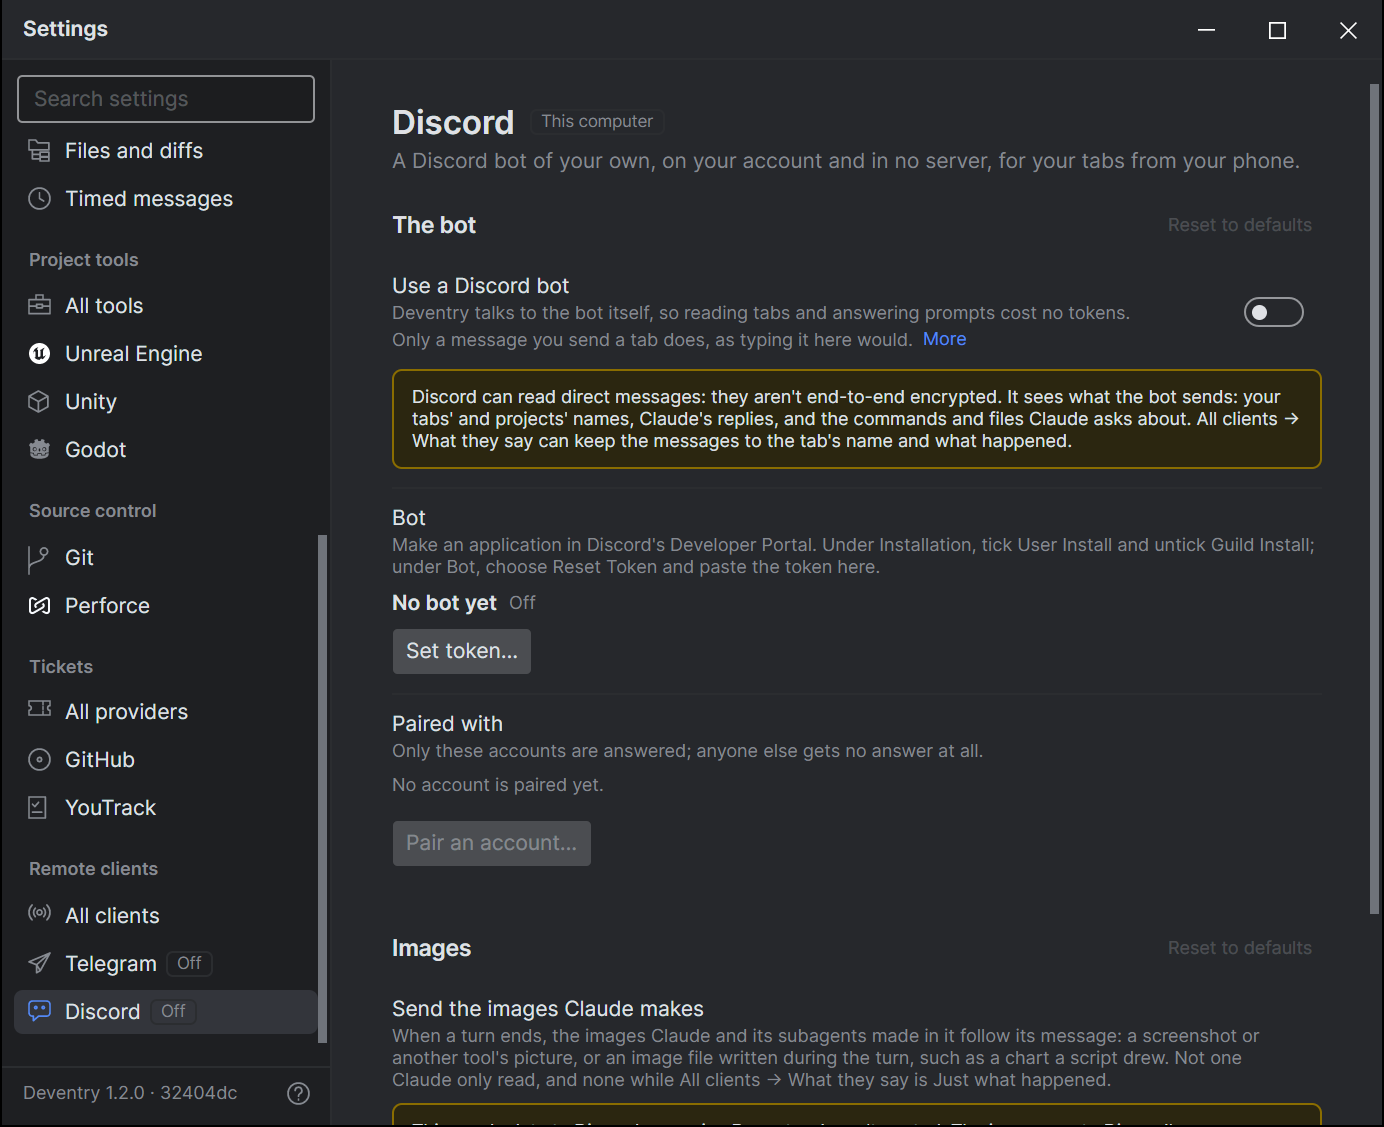
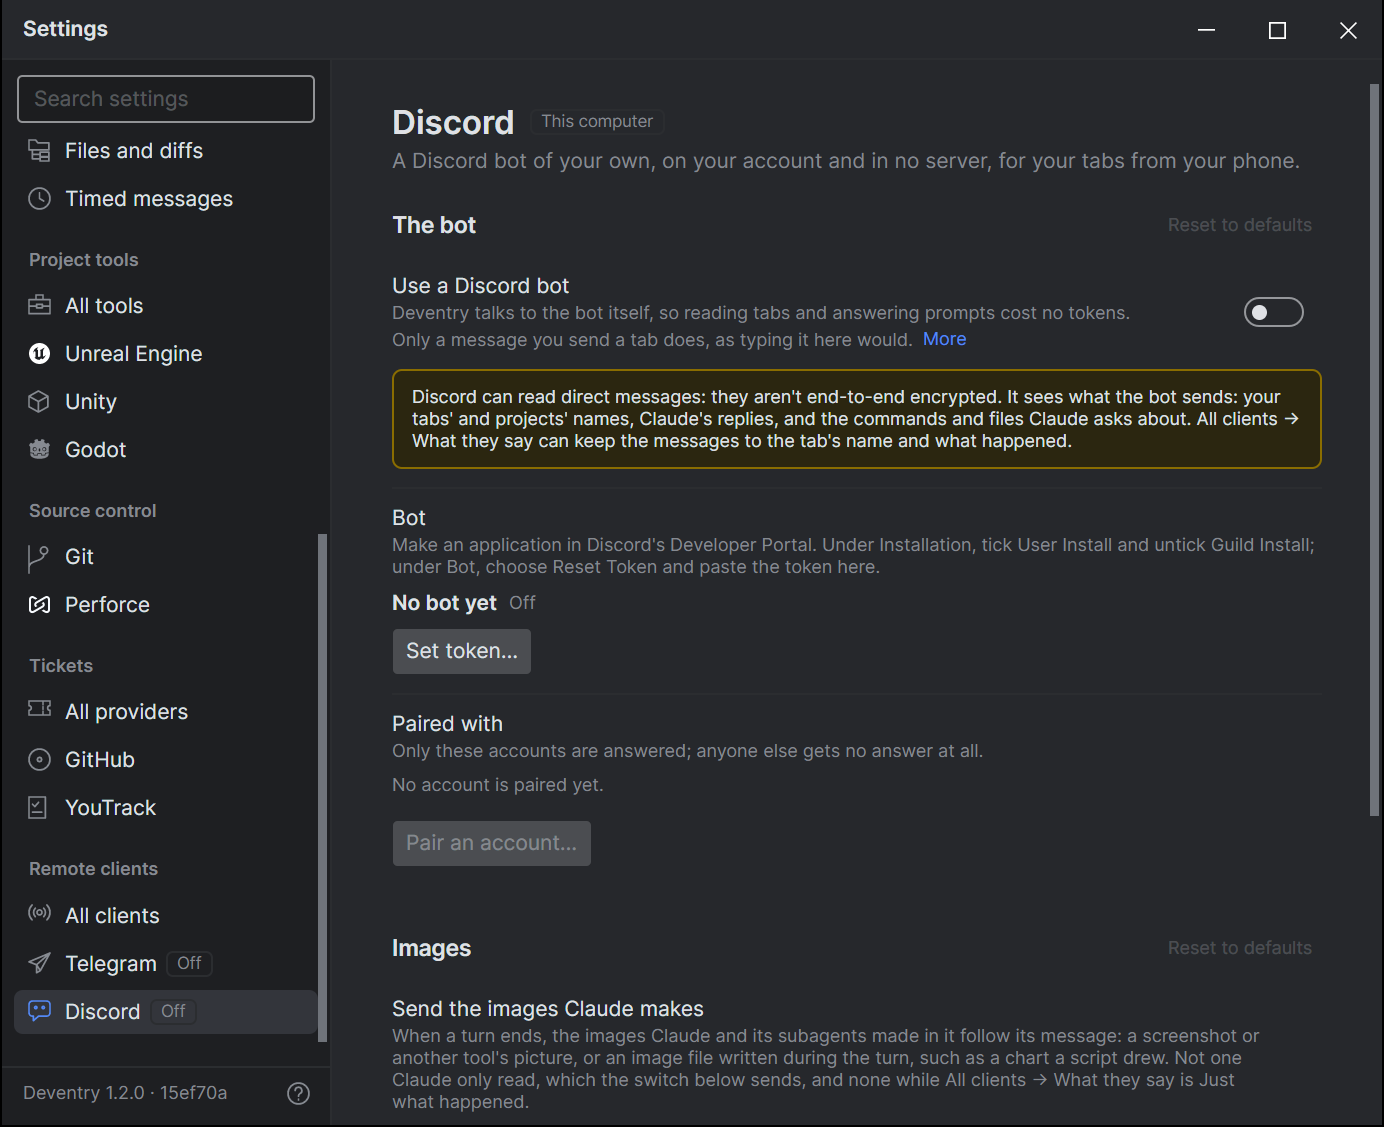
Let a remote client send the images Claude reads too, off by default
Each client's Images section has Send the images Claude reads under Send the images Claude makes: the image files
Claude and its subagents opened in a turn that were there before it, such as a render, a test's screenshot or a
picture another program wrote, follow the turn's message as the images it made do. Its own switch, off until turned
on, since any image file on the computer Claude reads would go; a client sends made and read images each by its own
switch, the caption saying which (The image Claude read, 3 images Claude made or read). The tab picks read images only
while a client that's on sends them.

diff --git a/src/Deventry.App/ViewModels/Settings/RemoteClientPage.cs b/src/Deventry.App/ViewModels/Settings/RemoteClientPage.cs
@@ -54,8 +54,11 @@ public sealed partial class RemoteClientPage : SettingsPage, IDisposable
         Section(ImagesSectionKey, "Images",
         [
             Setting(ImagesKey, ImagesTitle, s => s.RemoteClients.SendsImages(kind), (s, v) => s.RemoteClients.SetSendImages(kind, v),
-                "When a turn ends, the images Claude and its subagents made in it follow its message: a screenshot or another tool's picture, or an image file written during the turn, such as a chart a script drew. Not one Claude only read, and none while All clients → What they say is Just what happened.",
+                "When a turn ends, the images Claude and its subagents made in it follow its message: a screenshot or another tool's picture, or an image file written during the turn, such as a chart a script drew. Not one Claude only read, which the switch below sends, and none while All clients → What they say is Just what happened.",
                 keywords: ["image", "images", "screenshot", "picture", "photo", "chart", "media"]),
+            Setting(ReadImagesKey, ReadImagesTitle, s => s.RemoteClients.SendsReadImages(kind), (s, v) => s.RemoteClients.SetSendReadImages(kind, v),
+                "The images Claude and its subagents read in a turn follow its message too: image files that were there before it, which Claude opened to look at, such as a render, a test's output or a picture another program wrote. Any image file on this computer Claude reads goes, so it's off unless you turn it on.",
+                keywords: ["image", "images", "read", "opened", "picture", "photo", "render", "output", "media"]),
         ]);
         _pairingTicker = new UiTicker(Services.Time, Services.Dispatcher, TimeSpan.FromSeconds(1), OnPairingTick);
         Remote.Changed += OnRemoteChanged;
@@ -157,6 +160,18 @@ public sealed partial class RemoteClientPage : SettingsPage, IDisposable
     {
         get => Settings.RemoteClients.SendsImages(Kind);
         set => Set(value, v => Settings.RemoteClients.SetSendImages(Kind, v));
+    }
+
+    /// <summary>The read images' switch's key in <c>settings.json</c>: <c>remoteClients.clients.telegram.sendReadImages</c>.</summary>
+    public string ReadImagesKey => $"remoteClients.clients.{Kind}.sendReadImages";
+
+    public string ReadImagesTitle => "Send the images Claude reads";
+
+    /// <summary><b>Send the images Claude reads</b>, off by default.</summary>
+    public bool SendsReadImages
+    {
+        get => Settings.RemoteClients.SendsReadImages(Kind);
+        set => Set(value, v => Settings.RemoteClients.SetSendReadImages(Kind, v));
     }
 
     /// <summary>What sending images means, in the caution colors above its switch: they leave for a service Deventry doesn't control.</summary>

diff --git a/src/Deventry.Core/Remote/Chat/ChatBotClient.Events.cs b/src/Deventry.Core/Remote/Chat/ChatBotClient.Events.cs
@@ -182,9 +182,11 @@ public abstract partial class ChatBotClient
         var text = detail == RemoteDetail.JustWhatHappened ? Format.Escape(RemoteMessages.Finished(turn.Tab.Name)) : TurnText(turn);
         var buttons = Rows([MakeButton("Whole reply", new ReplyButton(turn.Tab.Id)), MakeButton("Changed files", new FilesButton(turn.Tab.Id))], 2);
         var sent = await BroadcastAsync(text, buttons, notice == RemoteNotice.Silent, turn.Tab.Id, cancellationToken).ConfigureAwait(false);
-        if (turn.Images.Count > 0 && detail == RemoteDetail.Everything && Desk.SendsImages(Kind))
+        // The images it made, when this client sends them, and those Claude only read, when it sends those too.
+        var images = detail == RemoteDetail.Everything ? [.. turn.Images.Where(i => i.WasRead ? Desk.SendsReadImages(Kind) : Desk.SendsImages(Kind))] : Array.Empty<RemoteImage>();
+        if (images.Length > 0)
         {
-            await SendImagesAsync(sent, turn, cancellationToken).ConfigureAwait(false);
+            await SendImagesAsync(sent, turn, images, cancellationToken).ConfigureAwait(false);
         }
     }
 
@@ -192,14 +194,14 @@ public abstract partial class ChatBotClient
     /// The images the turn made, after its message in each chat it went to, as a reply to it and silently: the message
     /// made the sound (DESIGN.md §18, "Remote clients", "Images").
     /// </summary>
-    private async Task SendImagesAsync(IReadOnlyList<(long Chat, long Message)> sent, RemoteTurnFinished turn, CancellationToken cancellationToken)
+    private async Task SendImagesAsync(IReadOnlyList<(long Chat, long Message)> sent, RemoteTurnFinished turn, IReadOnlyList<RemoteImage> images, CancellationToken cancellationToken)
     {
-        var caption = $"{Format.Bold(turn.Tab.Name)}: {Format.Escape(RemoteMessages.Images(turn.Images.Count, turn.ImagesLeftOut, turn.Tab.Agent))}";
+        var caption = $"{Format.Bold(turn.Tab.Name)}: {Format.Escape(RemoteMessages.Images(images.Count, turn.ImagesLeftOut, turn.Tab.Agent, images.Count(i => i.WasRead)))}";
         foreach (var (chat, message) in sent)
         {
             try
             {
-                var id = await PacedAsync(token => DeliverImagesAsync(chat, turn.Images, caption, message, silent: true, token), cancellationToken).ConfigureAwait(false);
+                var id = await PacedAsync(token => DeliverImagesAsync(chat, images, caption, message, silent: true, token), cancellationToken).ConfigureAwait(false);
                 Activity?.Invoke(RemoteActivity.Sent);
                 Remember(chat, id, turn.Tab.Id);
             }

diff --git a/src/Deventry.App/Services/RemoteImageFiles.cs b/src/Deventry.App/Services/RemoteImageFiles.cs
@@ -15,26 +15,30 @@ public static class RemoteImageFiles
     /// <summary>
     /// Of <paramref name="seen"/>, the agent's images the turn showed, oldest first, those it made: an image with no file
     /// (a screenshot, a tool's picture), or a file written since <paramref name="since"/> (a chart a script drew, a PNG
-    /// Claude wrote). An image it only read, which was there before, isn't. The newest
-    /// <see cref="RemoteImage.MostPerTurn"/> that can be sent, oldest first, and how many more it made.
+    /// Claude wrote). An image it only read, which was there before, isn't, unless <paramref name="withRead"/> says to
+    /// take those too (<b>Send the images Claude reads</b>), marked <see cref="RemoteImage.WasRead"/>. The newest
+    /// <see cref="RemoteImage.MostPerTurn"/> that can be sent, oldest first, and how many more there were.
     /// </summary>
-    public static (IReadOnlyList<RemoteImage> Images, int LeftOut) Made(IReadOnlyList<MediaEntry> seen, DateTimeOffset since)
+    public static (IReadOnlyList<RemoteImage> Images, int LeftOut) Made(IReadOnlyList<MediaEntry> seen, DateTimeOffset since, bool withRead = false)
     {
-        var made = seen.Where(entry => IsMade(entry, since)).ToList();
+        var taken = seen.Select(entry => (Entry: entry, WasRead: !IsMade(entry, since))).Where(e => !e.WasRead || (withRead && HasFile(e.Entry))).ToList();
         var images = new List<RemoteImage>();
         var tried = 0;
         // The newest first, until an album is full.
-        for (var i = made.Count - 1; i >= 0 && images.Count < RemoteImage.MostPerTurn; i--)
+        for (var i = taken.Count - 1; i >= 0 && images.Count < RemoteImage.MostPerTurn; i--)
         {
             tried++;
-            if (Read(made[i]) is { } image)
+            if (Read(taken[i].Entry) is { } image)
             {
-                images.Add(image);
+                images.Add(image with { WasRead = taken[i].WasRead });
             }
         }
         images.Reverse();
-        return (images, made.Count - tried);
+        return (images, taken.Count - tried);
     }
+
+    /// <summary>An image the turn showed from a file: one Claude may only have read.</summary>
+    private static bool HasFile(MediaEntry entry) => (entry.Path ?? entry.Image?.FilePath) is { Length: > 0 };
 
     private static bool IsMade(MediaEntry entry, DateTimeOffset since)
     {

diff --git a/tests/Deventry.Core.Tests/Remote/TelegramClientTests.cs b/tests/Deventry.Core.Tests/Remote/TelegramClientTests.cs
@@ -397,6 +397,29 @@ public sealed class TelegramClientTests : IAsyncLifetime
     }
 
     [Fact]
+    public async Task An_image_Claude_only_read_goes_only_to_a_client_that_sends_those()
+    {
+        _desk.SendImages.Add(TelegramClient.ClientKind);
+        await StartAsync();
+
+        _desk.Raise(TurnWithImages(Image("chart.png"), Image("render.png") with { WasRead = true }));
+
+        await NextSentAsync(1);
+        await Waiting.UntilAsync(() => _telegram.Of("sendPhoto").Count == 1, "the photo");
+        Assert.Equal("chart.png", (string)_telegram.Of("sendPhoto")[0]["photo"]!);
+        Assert.Equal("<b>Grappling hook</b>: The image Claude made", (string)_telegram.Of("sendPhoto")[0]["caption"]!);
+
+        // Told to send those too, the next turn's go together.
+        _desk.SendReadImages.Add(TelegramClient.ClientKind);
+        _desk.Raise(TurnWithImages(Image("chart.png"), Image("render.png") with { WasRead = true }));
+
+        await Waiting.UntilAsync(() => _telegram.Of("sendMediaGroup").Count == 1, "the album");
+        var album = _telegram.Of("sendMediaGroup").Single();
+        Assert.Equal(("chart.png", "render.png"), ((string)album["photo0"]!, (string)album["photo1"]!));
+        Assert.Equal("<b>Grappling hook</b>: 2 images Claude made or read", (string)JsonNode.Parse((string)album["media"]!)!.AsArray()[0]!["caption"]!);
+    }
+
+    [Fact]
     public async Task One_image_is_a_photo_and_one_too_tall_for_a_photo_comes_as_a_file()
     {
         _desk.SendImages.Add(TelegramClient.ClientKind);

diff --git a/src/Deventry.Core/Settings/RemoteClientSettings.cs b/src/Deventry.Core/Settings/RemoteClientSettings.cs
@@ -37,6 +37,19 @@ public sealed class RemoteClientSettings
         client.SendImages = on;
     }
 
+    /// <summary>The client of <paramref name="kind"/> sends the images Claude read in a turn too: off unless turned on.</summary>
+    public bool SendsReadImages(string kind) => Clients.TryGetValue(kind, out var client) && client.SendReadImages;
+
+    /// <summary>Turns sending the images Claude reads on or off for the client of <paramref name="kind"/>.</summary>
+    public void SetSendReadImages(string kind, bool on)
+    {
+        if (!Clients.TryGetValue(kind, out var client))
+        {
+            Clients[kind] = client = new RemoteClientTypeSettings();
+        }
+        client.SendReadImages = on;
+    }
+
     /// <summary>Any client is on.</summary>
     [System.Text.Json.Serialization.JsonIgnore]
     public bool AnyEnabled => Clients.Values.Any(c => c.Enabled);
@@ -82,6 +95,12 @@ public sealed class RemoteClientTypeSettings
 
     /// <summary><b>Send the images Claude makes</b>: after a turn's message, the images the turn made. Off by default.</summary>
     public bool SendImages { get; set; }
+
+    /// <summary>
+    /// <b>Send the images Claude reads</b>: the images Claude opened in a turn too, such as one another program wrote.
+    /// Off by default.
+    /// </summary>
+    public bool SendReadImages { get; set; }
 }
 
 /// <summary>What the remote clients keep in <c>state.json</c>: the paired accounts and the bot's name.</summary>

diff --git a/src/Deventry.Core/Remote/RemoteMessages.cs b/src/Deventry.Core/Remote/RemoteMessages.cs
@@ -71,12 +71,17 @@ public static class RemoteMessages
     /// What the images a turn made say, after the tab's name: "The image Claude made", "3 images Claude made", or with
     /// more than one album holds, "10 of the 14 images Claude made. The rest are in the tab's Media window."
     /// </summary>
-    public static string Images(int sent, int leftOut, string agent = "Claude") => (sent, leftOut) switch
+    /// <param name="read">How many of <paramref name="sent"/> the agent only read.</param>
+    public static string Images(int sent, int leftOut, string agent = "Claude", int read = 0)
     {
-        (1, 0) => $"The image {agent} made",
-        (_, 0) => $"{sent} images {agent} made",
-        _ => $"{sent} of the {sent + leftOut} images {agent} made. The rest are in the tab's Media window.",
-    };
+        var did = read == 0 ? "made" : read >= sent ? "read" : "made or read";
+        return (sent, leftOut) switch
+        {
+            (1, 0) => $"The image {agent} {did}",
+            (_, 0) => $"{sent} images {agent} {did}",
+            _ => $"{sent} of the {sent + leftOut} images {agent} {did}. The rest are in the tab's Media window.",
+        };
+    }
 
     // ---- The desk ---------------------------------------------------------------------------------------------------
 

diff --git a/src/Deventry.App/Services/RemoteClientsService.cs b/src/Deventry.App/Services/RemoteClientsService.cs
@@ -562,8 +562,16 @@ public sealed class RemoteClientsService : IRemoteDesk, IAsyncDisposable
 
     public bool SendsImages(string kind) => Settings.SendsImages(kind) && Settings.Detail == RemoteDetail.Everything;
 
-    /// <summary>A client that's on sends the images a turn made: the tabs find them and read them, which nothing does otherwise.</summary>
-    internal bool WantsImages => _clients.Keys.Any(SendsImages);
+    public bool SendsReadImages(string kind) => Settings.SendsReadImages(kind) && Settings.Detail == RemoteDetail.Everything;
+
+    /// <summary>
+    /// A client that's on sends the images a turn made, or those Claude read: the tabs find them and read them, which
+    /// nothing does otherwise.
+    /// </summary>
+    internal bool WantsImages => _clients.Keys.Any(kind => SendsImages(kind) || SendsReadImages(kind));
+
+    /// <summary>A client that's on sends the images Claude reads: the tabs pick those too.</summary>
+    internal bool WantsReadImages => _clients.Keys.Any(SendsReadImages);
 
     public Task<IReadOnlyList<RemoteTab>> GetTabsAsync(CancellationToken cancellationToken = default) =>
         OnUiAsync<IReadOnlyList<RemoteTab>>(() => [.. Tabs().Select(t => t.Tab.ToRemote(t.Project))], cancellationToken);

diff --git a/tests/Deventry.App.Tests/RemoteClientsTests.cs b/tests/Deventry.App.Tests/RemoteClientsTests.cs
@@ -405,6 +405,21 @@ public class RemoteClientsTests
     }
 
     [Fact]
+    public async Task The_images_Claude_only_read_come_too_marked_when_a_client_sends_those()
+    {
+        await using var remote = await StartAsync(s => s.RemoteClients.SetSendReadImages("telegram", true));
+        Assert.True(remote.Desk.SendsReadImages("telegram"));
+        Assert.False(remote.Desk.SendsImages("telegram"));
+
+        EmitTurnWithImages(remote);
+
+        await TabTestHarness.Eventually(() => remote.Client.Of<RemoteTurnFinished>().Count == 1, "the turn's end");
+        var turn = remote.Client.Of<RemoteTurnFinished>()[0];
+        // All three, as the Media window has them: the image it read, which was there a day before the turn, marked.
+        Assert.Equal([("Image.png", false), ("before.png", true), ("chart.png", false)], turn.Images.Select(i => (i.Name, i.WasRead)));
+    }
+
+    [Fact]
     public async Task No_images_are_read_while_no_client_sends_them_or_the_messages_say_just_what_happened()
     {
         await using var remote = await StartAsync(s =>

diff --git a/tests/Deventry.Core.Tests/Remote/RemoteMessagesTests.cs b/tests/Deventry.Core.Tests/Remote/RemoteMessagesTests.cs
@@ -81,4 +81,11 @@ public class RemoteMessagesTests
     [InlineData(10, 4, "Codex", "10 of the 14 images Codex made. The rest are in the tab's Media window.")]
     public void A_turns_images_say_how_many_and_whose(int sent, int leftOut, string agent, string expected) =>
         Assert.Equal(expected, RemoteMessages.Images(sent, leftOut, agent));
+
+    [Theory]
+    [InlineData(1, 1, "The image Claude read")]
+    [InlineData(3, 1, "3 images Claude made or read")]
+    [InlineData(2, 2, "2 images Claude read")]
+    public void Images_Claude_only_read_say_so(int sent, int read, string expected) =>
+        Assert.Equal(expected, RemoteMessages.Images(sent, 0, "Claude", read));
 }

diff --git a/src/Deventry.Core/Remote/RemoteEvents.cs b/src/Deventry.Core/Remote/RemoteEvents.cs
@@ -65,7 +65,9 @@ public sealed record RemoteTurnFinished(RemoteTab Tab, TimeSpan? Took, string? T
 {
     /// <summary>
     /// The images the turn made, up to <see cref="RemoteImage.MostPerTurn"/>, for the clients that send them
-    /// (<see cref="IRemoteDesk.SendsImages"/>). Empty when none does, so nothing is read for nobody.
+    /// (<see cref="IRemoteDesk.SendsImages"/>), and those Claude read in it (<see cref="RemoteImage.WasRead"/>) when a
+    /// client sends those too (<see cref="IRemoteDesk.SendsReadImages"/>). Empty when none does, so nothing is read for
+    /// nobody.
     /// </summary>
     public IReadOnlyList<RemoteImage> Images { get; init; } = [];
 

diff --git a/src/Deventry.Core/Remote/RemoteImage.cs b/src/Deventry.Core/Remote/RemoteImage.cs
@@ -9,6 +9,12 @@ namespace Deventry.Core.Remote;
 /// <param name="MediaType"><c>image/png</c> or <c>image/jpeg</c>.</param>
 public sealed record RemoteImage(string Name, string MediaType, byte[] Data, int Width, int Height)
 {
+    /// <summary>
+    /// Claude only read it: a file that was there before the turn, which it opened to look at. Sent only by a client that
+    /// sends the images Claude reads (<see cref="IRemoteDesk.SendsReadImages"/>).
+    /// </summary>
+    public bool WasRead { get; init; }
+
     /// <summary>The most a turn sends: one album, as Telegram and Discord each take ten in one message.</summary>
     public const int MostPerTurn = 10;
 

diff --git a/src/Deventry.App/ViewModels/TabViewModel.Remote.cs b/src/Deventry.App/ViewModels/TabViewModel.Remote.cs
@@ -507,6 +507,7 @@ public sealed partial class TabViewModel
         // In the order the conversation last showed them, as the Media window has them, however long finding a file took.
         var seen = _turnImages.OrderBy(e => e.Order).ToArray();
         var since = _turnStartedAt - WriteTimeSlack;
-        return seen.Length == 0 ? ([], 0) : await Task.Run(() => Services.RemoteImageFiles.Made(seen, since));
+        var withRead = Remote.WantsReadImages;
+        return seen.Length == 0 ? ([], 0) : await Task.Run(() => Services.RemoteImageFiles.Made(seen, since, withRead));
     }
 }
